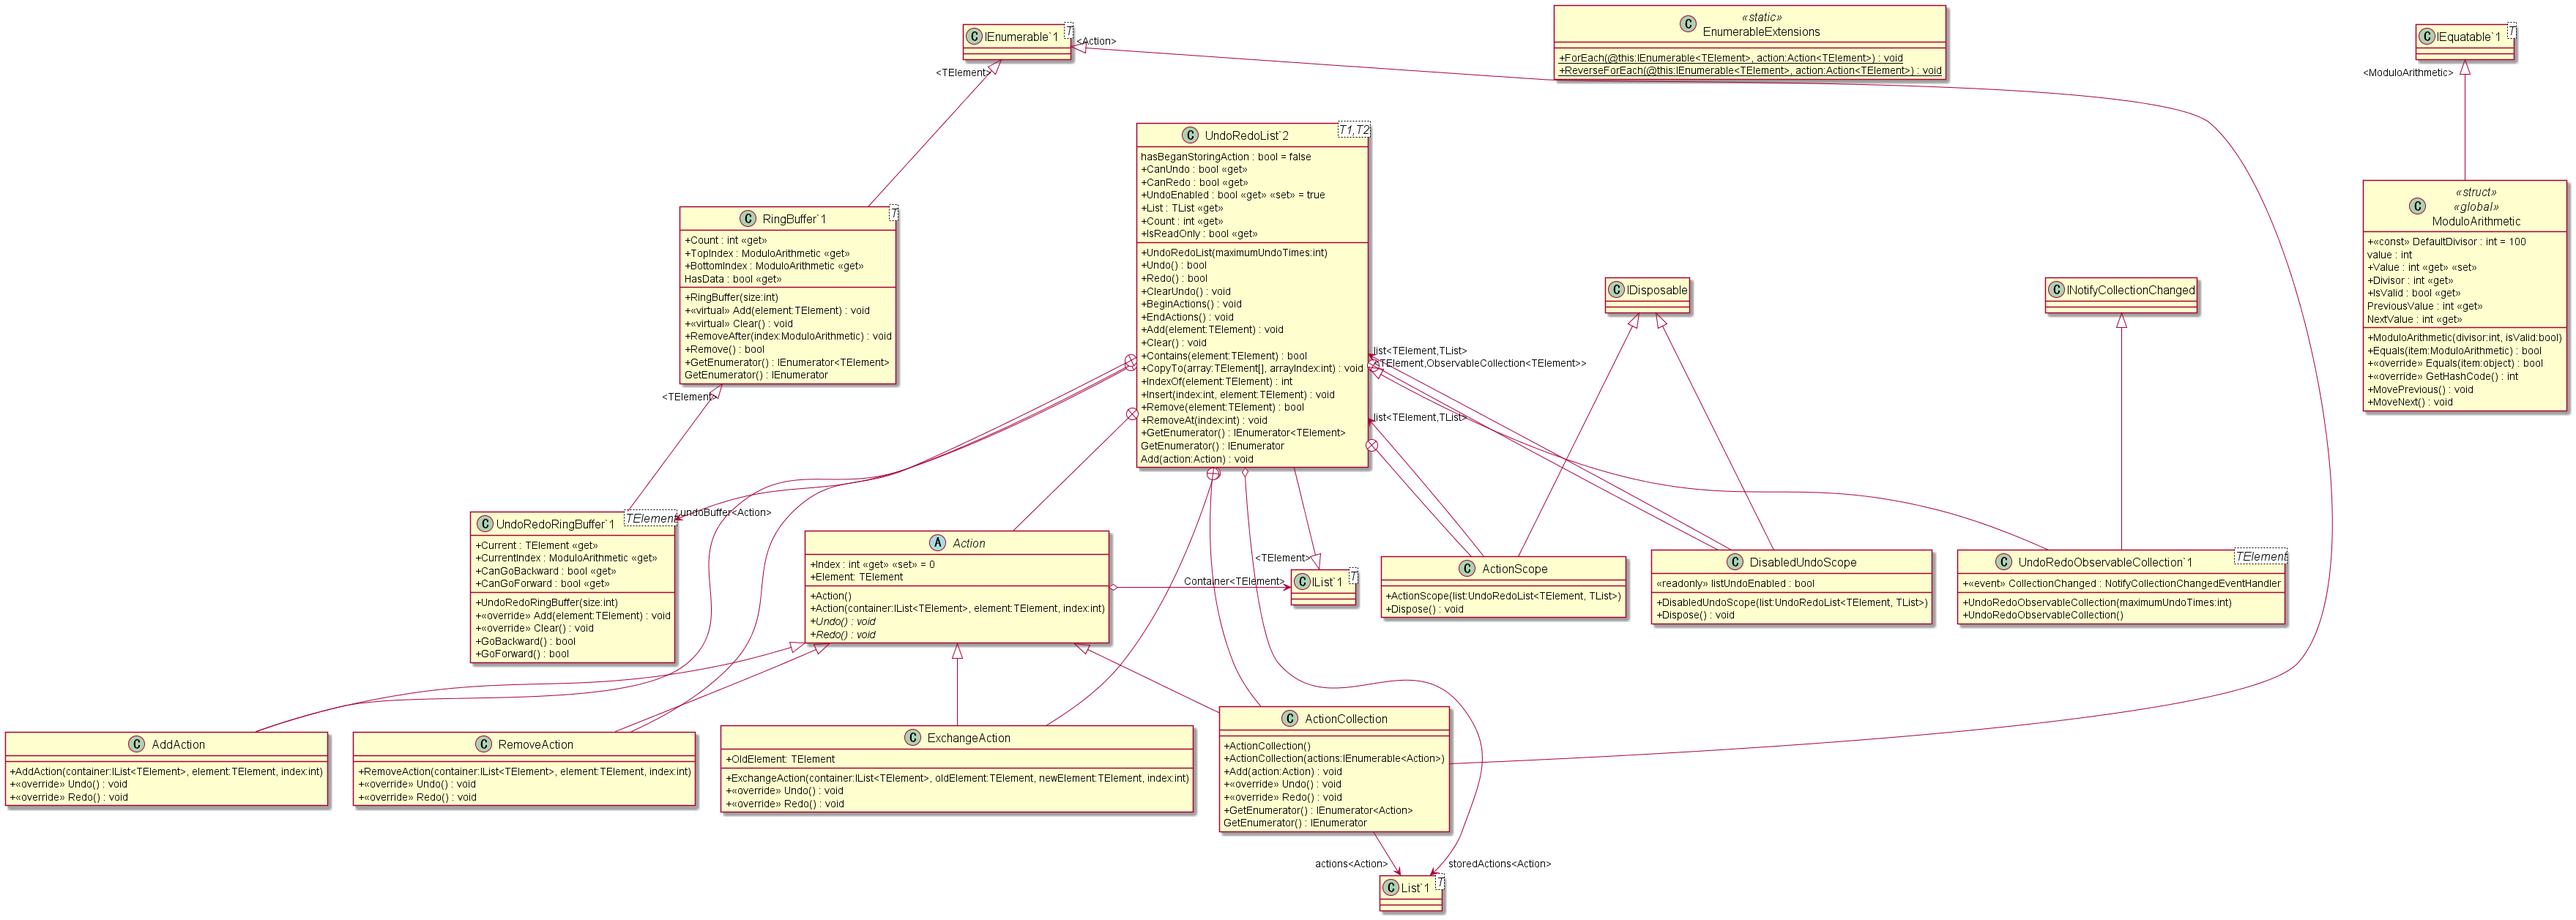
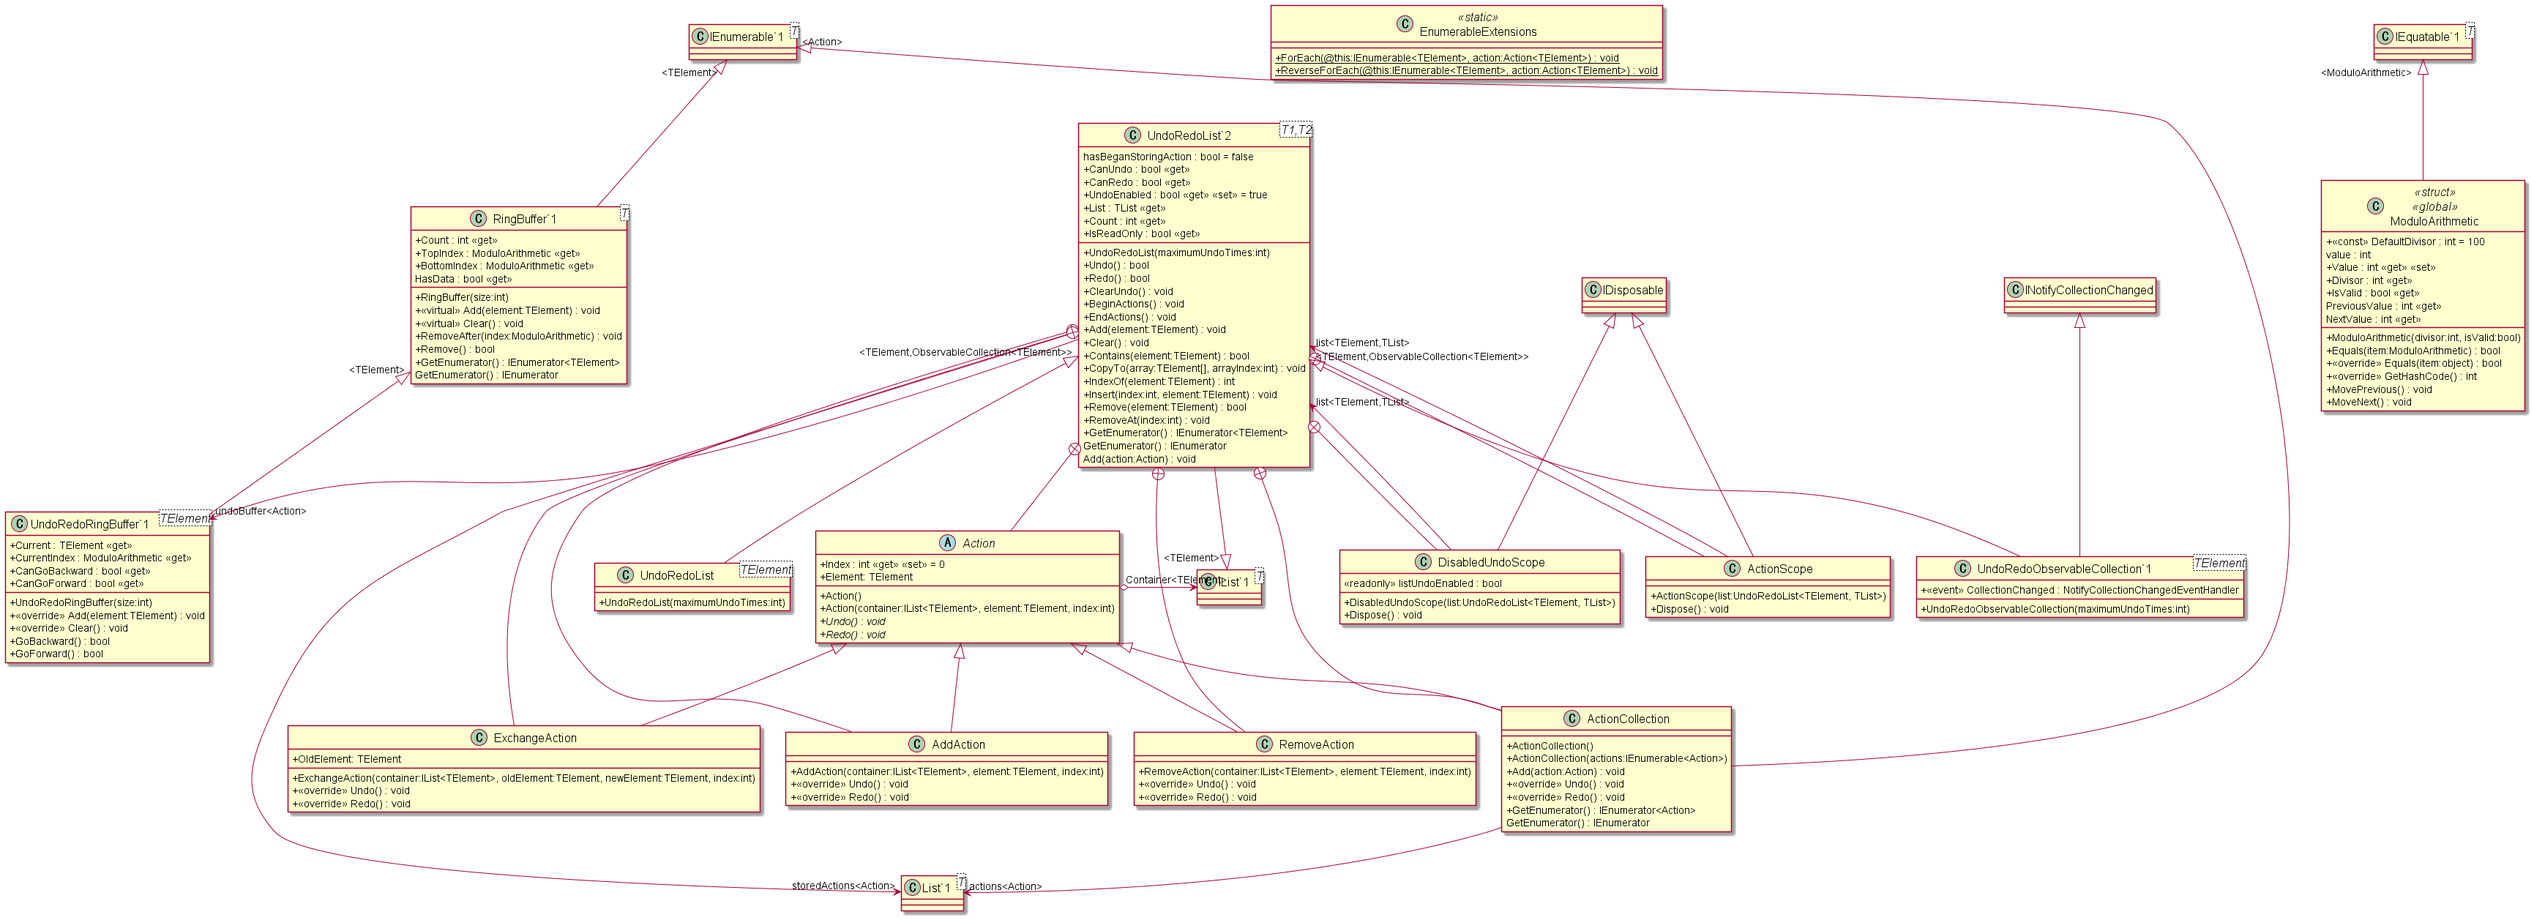
Add UndoRedoList class.

diff --git a/README.md b/README.md
@@ -46,6 +46,11 @@ Sample WPF app for UndoRedoObservableCollection.
 
 [IList](https://docs.microsoft.com/dotnet/api/system.collections.ilist) implemented collection which supports undo/redo.
 
+
+### class [UndoRedoList<TElement>](Shos.UndoRedoList/UndoRedoList.cs) : IList<TElement> where TList : IList<TElement>, new()
+
+[List](https://docs.microsoft.com/dotnet/api/system.collections.generic.list-1) implemented collection which supports undo/redo.
+
 ### class [UndoRedoObservableCollection<TElement>](Shos.UndoRedoList/UndoRedoObservableCollection.cs) : UndoRedoList<TElement, ObservableCollection<TElement>>, INotifyCollectionChanged
 
 [ObservableCollection](https://docs.microsoft.com/dotnet/api/system.collections.objectmodel.observablecollection-1) which supports undo/redo.
